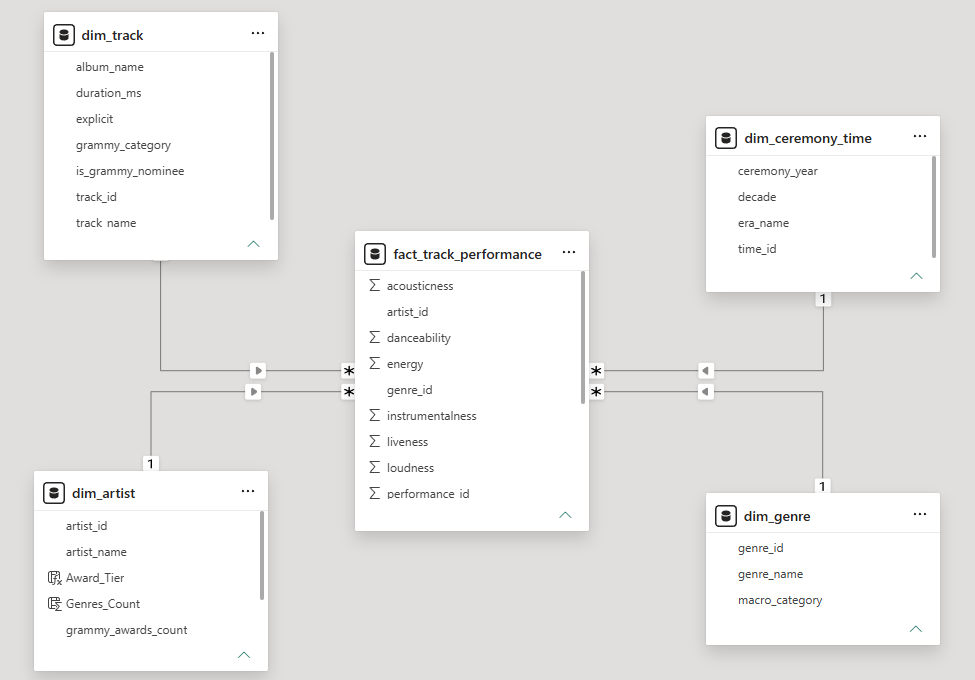
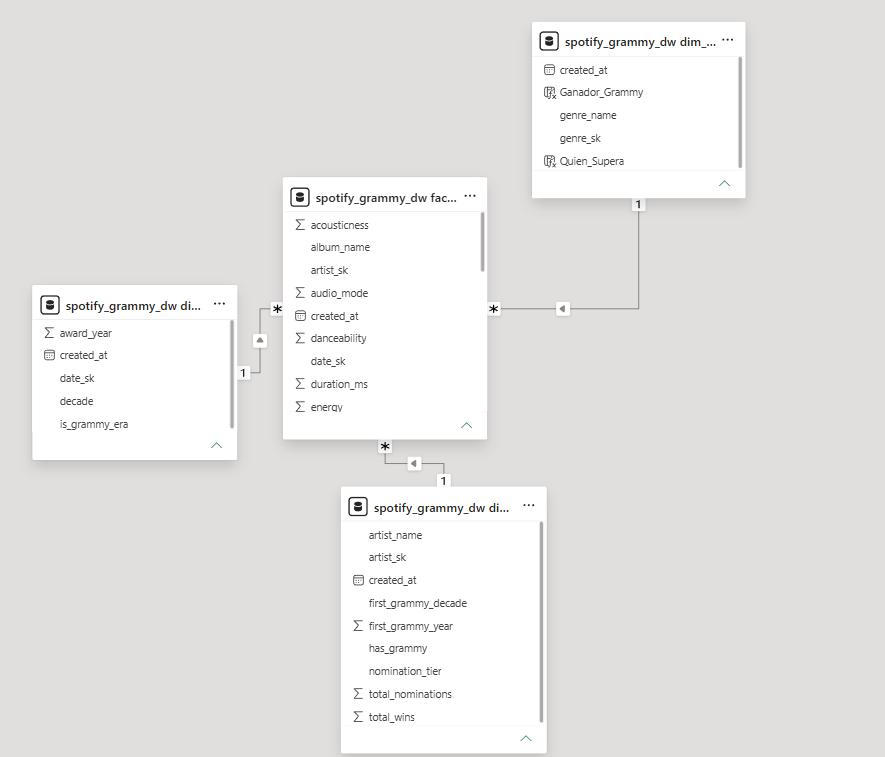
docs: add real Power BI Star Schema model screenshot and organize section 15

diff --git a/README.es.md b/README.es.md
@@ -771,8 +771,10 @@ La capa analítica conecta **Microsoft Power BI** directamente al Data Warehouse
 
 ### Capturas del Tablero y Modelo Dimensional (Power BI)
 
+#### Dashboard Analítico Consolidado
 ![Power BI Analytics Dashboard](docs/images/powerbi_dashboard.png)
 
+#### Modelo Dimensional Star Schema
 ![Power BI Star Schema Data Model](docs/images/powerbi_model_schema.png)
 
 ### Visual 1: Reconocimiento Grammy vs. Incremento en Popularidad (REQ-01)

diff --git a/README.md b/README.md
@@ -771,8 +771,10 @@ The analytical layer connects **Microsoft Power BI** directly to the dimensional
 
 ### Dashboard & Dimensional Model Screenshots
 
+#### Consolidated Analytics Dashboard
 ![Power BI Analytics Dashboard](docs/images/powerbi_dashboard.png)
 
+#### Star Schema Data Model
 ![Power BI Star Schema Data Model](docs/images/powerbi_model_schema.png)
 
 ### Visual 1: Grammy Recognition vs. Streaming Popularity Lift (REQ-01)
